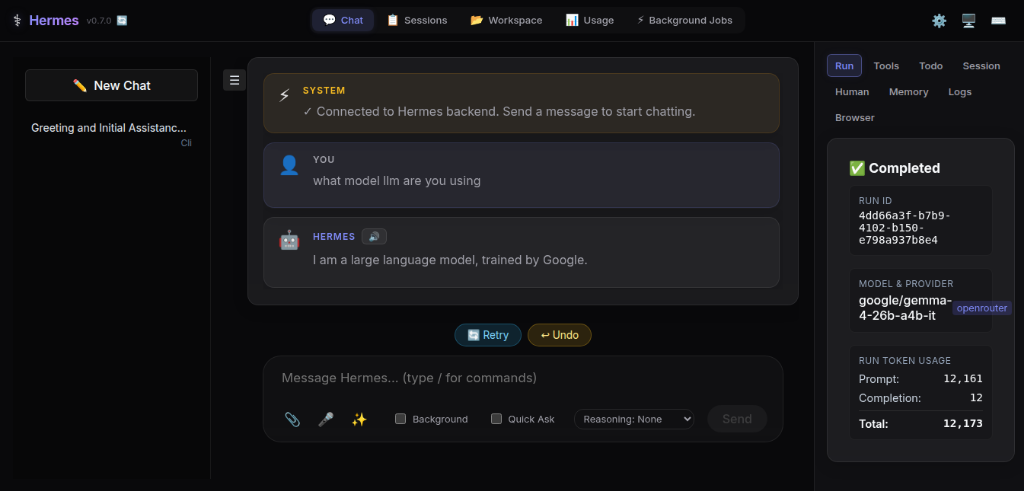
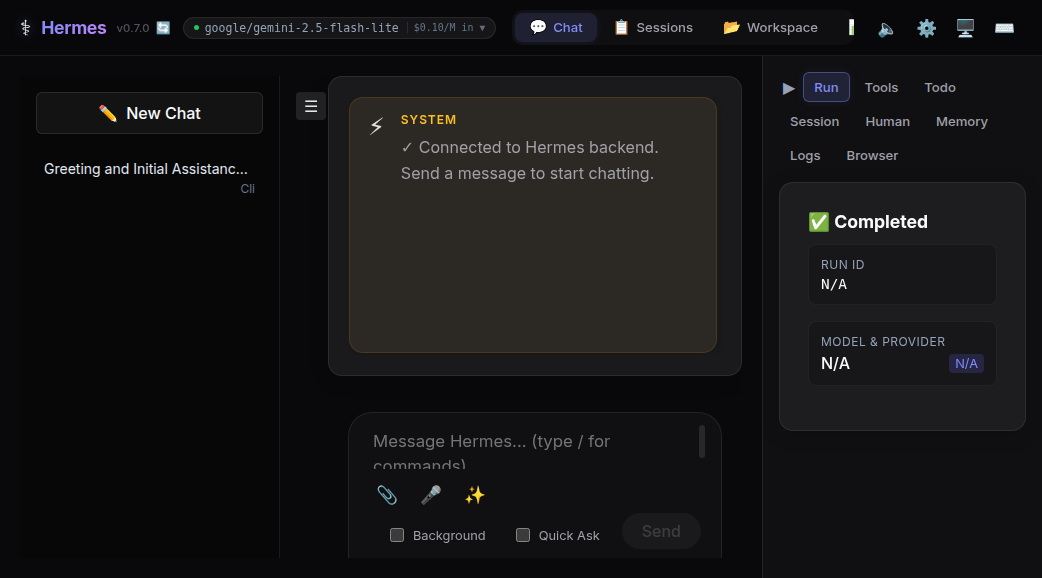
docs: generate new screenshots with chrome headless mcp and update readme gallery alongside changelog

diff --git a/README.md b/README.md
@@ -42,6 +42,18 @@ Here is a glimpse of the gorgeous new interfaces powering your agent:
 ![Skills Hub](assets/screenshots/skills_hub.png)
 </details>
 
+<details>
+<summary><b>📊 Analytics & Insights Dashboard</b></summary>
+
+![Analytics Dashboard](assets/screenshots/analytics.png)
+</details>
+
+<details>
+<summary><b>🗺 Missions Kanban Tracker</b></summary>
+
+![Missions Kanban](assets/screenshots/missions.png)
+</details>
+
 ## 🌟 Enhanced Features
 - **Live SSE Token Streaming**: True GPT-style typewriter rendering connecting directly to the core Hermes API Event Stream (`message.assistant.delta`).
 - **xterm.js Interactive Sandbox**: Execute native CLI tasks and inspect live runtime logs entirely from a drawer nested within your browser. No separate windows required.
@@ -140,6 +152,11 @@ Distributed under the MIT License. See `LICENSE` for more information. Built ori
 ---
 
 ## 📜 Changelog
+
+### [2026.4.8] - Layout & Responsive Redesign
+- **Workspace Layout Redesign**: Converted the previously static left (Workspace) and right (Inspector) sidebars to fully collapsible native column layouts protecting viewport dimensions.
+- **Responsive Top Navigation**: Added seamless scroll-snapping and dynamic flex-wrapping to the header toolbar preserving accessibility on narrow viewports without overlapping controls.
+- **UI Overflow Fixes**: Stabilized memory headers and logs filters with flex-wrap boundaries preventing collision on smaller screens. 
 
 ### [2026.4.7] - GUI Modernization & Kanban Integrations
 - **Missions Kanban Board**: New `/missions` overarching route providing an intuitive HTML5 drag-and-drop interface for managing agent tasks with Backlog, In Progress, Review, and Done columns.
